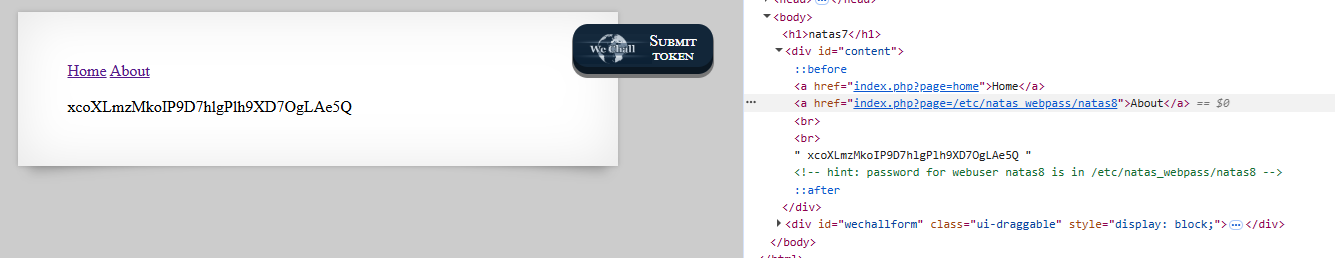
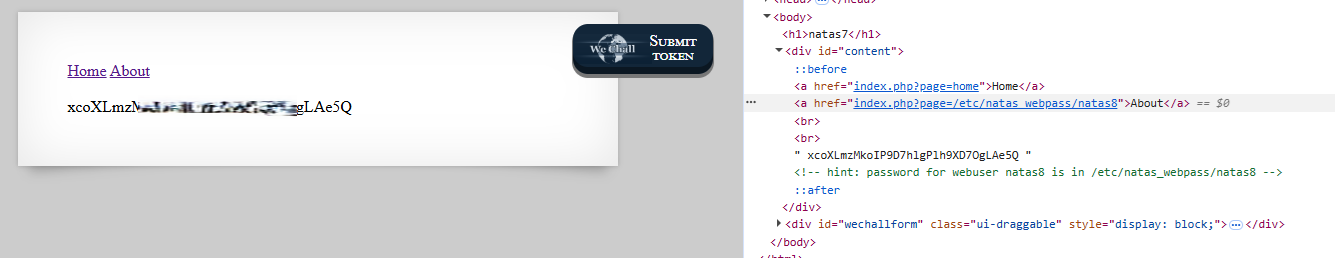
updated

Changed region(s): [[0.0921, 0.3721, 0.2457, 0.4651]]

diff --git a/natas/levels/level-19.md b/natas/levels/level-19.md
@@ -64,7 +64,7 @@ Observations:
 61646d696e → admin
 ```
 
-So session format is:
+So session format appears to be:
 
 ```text
 <id>-admin (hex encoded)
@@ -101,7 +101,7 @@ Using Burp Suite Intruder:
 - Iterate through range
 - Look for response indicating admin access
 
-![number_list_0-640-hex](/number_list_0-640-hex.txt)
+[number_list_0-640-hex](number_list_0-640-hex.txt)
 
 ---
 

diff --git a/natas/levels/level-18.md b/natas/levels/level-18.md
@@ -73,7 +73,7 @@ Using Burp Suite Intruder:
 - Payload: numbers `1 → 640`
 - Monitor responses for changes indicating admin access
 
-![number_list_0-640](/number_list_0-640.txt)
+[number_list_0-640](./number_list_0-640.txt)
 
 ---
 

diff --git a/natas/levels/level-08.md b/natas/levels/level-08.md
@@ -68,7 +68,7 @@ Using CyberChef:
 Recovered input secret:
 
 ```text
-oubWYf2kBq
+oubWY... (Redacted)
 ```
 
 ---
